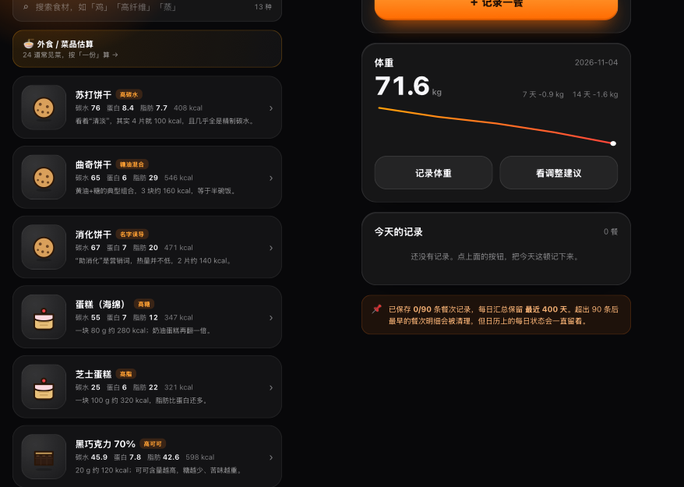
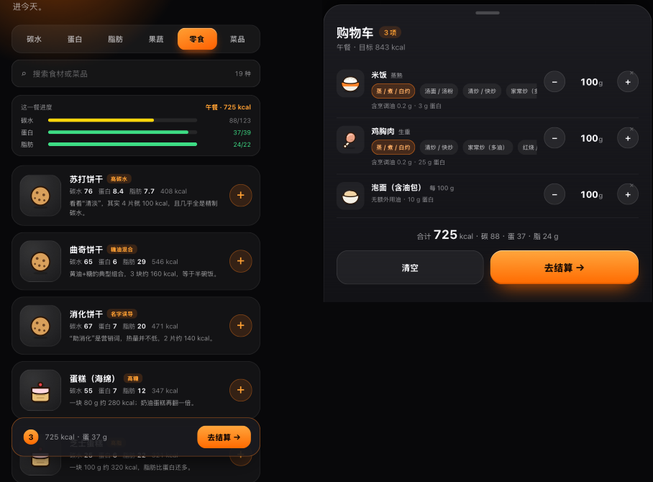
选购式配餐：购物车 + 结算 + 自动记录 + 体重曲线 + 零食与菜品

diff --git a/index.html b/index.html
@@ -6,7 +6,7 @@
 <title>Muscle Calculator · 增肌减脂饮食计算器</title>
 <meta name="theme-color" content="#08080a">
 <link rel="manifest" href="manifest.webmanifest">
-<meta name="app-build" content="v2026.11.04 · af6001ca">
+<meta name="app-build" content="v2026.11.04 · 8e569768">
[2 lines of base64/hex data omitted]
 <meta name="apple-mobile-web-app-capable" content="yes">
@@ -984,6 +984,31 @@ button,.chip,.tab,.food,.cal-cell,.reco-row,.slot,.log-row{touch-action:manipula
 .cs-total b{font-size:20px;color:var(--txt);font-variant-numeric:tabular-nums}
 .cb-left{background:none;border:0;padding:0;cursor:pointer;display:flex;align-items:center;gap:10px;font-family:inherit}
 .cart-wrap{display:contents}
+
+/* ---------------- BMI 卡片 ---------------- */
+.bmi-top{display:flex;align-items:center;gap:14px;margin:4px 0 10px}
+.bmi-num{font-size:40px;font-weight:800;letter-spacing:-.04em;line-height:1;font-variant-numeric:tabular-nums}
+.bmi-num.ok{color:#3ddc84}.bmi-num.low{color:#ffc078}.bmi-num.high{color:#ff8a80}
+.bmi-right{display:flex;flex-direction:column;gap:4px}
+.bmi-cat{font-size:11px;font-weight:750;padding:3px 9px;border-radius:99px;align-self:flex-start}
+.bmi-cat.ok{background:rgba(61,220,132,.14);color:#3ddc84}
+.bmi-cat.low{background:rgba(255,159,10,.14);color:#ffb454}
+.bmi-cat.high{background:rgba(255,69,58,.14);color:#ff8a80}
+.bmi-sub2{font-size:10.5px;color:var(--dim-2)}
+.bmi-line{display:flex;align-items:center;gap:8px;flex-wrap:wrap;font-size:11.5px;color:var(--dim);margin:10px 0}
+.bmi-flag{font-size:9.5px;font-weight:700;padding:2px 7px;border-radius:6px}
+.bmi-flag.ok{background:rgba(61,220,132,.14);color:#3ddc84}
+.bmi-flag.mid{background:rgba(255,159,10,.14);color:#ffb454}
+.bmi-flag.high{background:rgba(255,69,58,.14);color:#ff8a80}
+.bmi-scale{display:flex;gap:2px;height:6px;border-radius:99px;overflow:hidden;margin-top:10px}
+.bmi-scale i{display:block;height:100%}
+.bmi-scale i:nth-child(1){background:#ffd60a}
+.bmi-scale i:nth-child(2){background:#3ddc84}
+.bmi-scale i:nth-child(3){background:#ff9f0a}
+.bmi-scale i:nth-child(4){background:#ff453a}
+.bmi-ticks{display:flex;justify-content:space-between;font-size:9px;color:var(--dim-2);margin-top:4px;padding:0 2px}
+.bmi-num.mid{color:#ffb454}
+.bmi-cat.mid{background:rgba(255,159,10,.14);color:#ffb454}
 </style>
 </head>
 <body>
@@ -2749,6 +2774,7 @@ const DEFAULTS = {
   height: 175,
   weight: 72,
   age: 27,
+  waist: 0,                    // 腰围 cm，0 = 未填
   sessions: 4,
   trainTime: 'evening_after',
   cart: [],                    // 购物车 [{cat,id,g,method,serv}]
@@ -2824,7 +2850,16 @@ function compute() {
 
   /* ---- ⓪ 参考体重：BMI ≥ 28 时按理想体重折算（国内临床惯用做法） ---- */
   const bmi = w / ((h / 100) ** 2);
-  const ibw = 22 * ((h / 100) ** 2);
+  // 中国标准（WS/T 428-2013 / 肥胖症中国诊疗指南 2024）：<18.5 偏瘦，18.5–23.9 正常，24–27.9 超重，≥28 肥胖
+  const bmiCat = bmi < 18.5 ? '偏瘦' : bmi < 24 ? '正常' : bmi < 28 ? '超重' : '肥胖';
+  const hm = h / 100;
+  const healthyMin = 18.5 * hm * hm, healthyMax = 23.9 * hm * hm;
+  // 中心性肥胖：男 ≥90 cm、女 ≥85 cm（2024 指南）；腰高比 ≥0.5 为风险增高（NICE NG246）
+  const waist = state.waist > 0 ? state.waist : null;
+  const whtr = waist ? waist / h : null;
+  const central = waist ? (state.sex === 'm' ? waist >= 90 : waist >= 85) : null;
+  const centralWarn = waist ? (state.sex === 'm' ? waist >= 85 && waist < 90 : waist >= 80 && waist < 85) : null;
+  const ibw = 22 * hm * hm;
   const refW = bmi >= 28 ? ibw : w;
 
   /* ---- ① 热量：只设上限 40 kcal/kg（防止公式在极端体型上跑飞），并设安全下限 ---- */
@@ -2905,6 +2940,8 @@ function compute() {
     pRange: sc.proteinRange || [pPerKg, pPerKg],
     scene: sc, adjusted, guards, diet, dietNote,
     refW: round(refW, 1), bmi: round(bmi, 1), useIbw: bmi >= 28,
+    bmiCat, healthyMin: Math.round(healthyMin), healthyMax: Math.round(healthyMax),
+    waist, whtr: whtr ? round(whtr, 2) : null, central, centralWarn,
     weekly,
     perMealP: round(protein / state.meals),
     water: round(w * 0.035, 1),
@@ -2980,6 +3017,15 @@ function renderInput() {
     ${sliderHTML('height', '身高', state.height, 145, 205, 1, 'cm')}
     ${sliderHTML('weight', '体重', state.weight, 40, 130, 0.5, 'kg')}
     ${sliderHTML('age', '年龄', state.age, 15, 65, 1, '岁')}
+    <div class="field">
+      <div class="field-head">
+        <span class="field-label">腰围（可不填）</span>
+        <span class="field-value" id="fv-waist">${state.waist > 0 ? state.waist + '<small>cm</small>' : '<span style="font-size:13px;color:var(--dim-2)">未填</span>'}</span>
+      </div>
+      <input type="range" data-slider="waist" min="0" max="140" step="1" value="${state.waist}"
+        style="--p:${state.waist / 140 * 100}%" aria-label="腰围">
+      <div class="card-hint" style="margin-top:6px">脐上一指水平绕一圈。男性 ≥90 cm、女性 ≥85 cm 属中心性肥胖。</div>
+    </div>
   </div>
 
   <div class="card">
@@ -3020,18 +3066,66 @@ function renderInput() {
   `;
 }
 
+/* BMI / 腰围 卡片 */
+function bmiCard(r) {
+  const tone = r.bmiCat === '正常' ? 'ok' : r.bmiCat === '偏瘦' ? 'low' : r.bmiCat === '超重' ? 'mid' : 'high';
+  const waistHtml = r.waist
+    ? `<div class="bmi-line">
+        <span>腰围 ${r.waist} cm</span>
+        <span class="bmi-flag ${r.central ? 'high' : r.centralWarn ? 'mid' : 'ok'}">${
+          r.central ? '中心性肥胖' : r.centralWarn ? '偏高' : '正常'
+        }</span>
+        <span class="bmi-sub2">腰高比 ${r.whtr}${r.whtr >= 0.5 ? '（≥0.5）' : ''}</span>
+      </div>`
+    : `<div class="bmi-line"><span class="bmi-sub2">填腰围可以进一步判断内脏脂肪风险</span></div>`;
+
+  return `<div class="card">
+    <div class="card-title"><h3>BMI 与腰围</h3><span class="card-hint">中国标准</span></div>
+    <div class="bmi-top">
+      <div class="bmi-num ${tone}">${r.bmi}</div>
+      <div class="bmi-right">
+        <span class="bmi-cat ${tone}">${r.bmiCat}</span>
+        <div class="bmi-sub2">健康体重 ${r.healthyMin}–${r.healthyMax} kg</div>
+      </div>
+    </div>
+    ${waistHtml}
+    <div class="bmi-scale">
+      <i style="flex:${Math.max(0, Math.min(r.bmi, 18.5) - 14)}"></i>
+      <i style="flex:${Math.max(0, Math.min(r.bmi, 24) - 18.5)}"></i>
+      <i style="flex:${Math.max(0, Math.min(r.bmi, 28) - 24)}"></i>
+      <i style="flex:${Math.max(0, Math.min(r.bmi, 36) - 28)}"></i>
+    </div>
+    <div class="bmi-ticks"><span>18.5</span><span>24</span><span>28</span></div>
+    <p class="lead" style="margin-top:10px">${bmiMessage(r)}</p>
+  </div>`;
+}
+
+function bmiMessage(r) {
+  if (r.bmi < 18.5) return 'BMI 低于 18.5，优先把体重吃回来，再谈增肌或减脂。';
+  if (r.bmi < 24) return 'BMI 在正常范围（18.5–23.9）。BMI 不区分肌肉和脂肪，配合腰围一起看更准。';
+  if (r.bmi < 28) {
+    if (r.central) return 'BMI 属超重，且腰围已达中心性肥胖标准——内脏脂肪的风险比体重数字更值得优先处理。';
+    return 'BMI 偏高但腰围正常。如果你在规律力量训练，这多半是肌肉量带来的，不必按“超重”处理。';
+  }
+  return 'BMI ≥28 属肥胖（中国标准），建议先减重；本工具已按理想体重折算蛋白与脂肪，不需要再额外加蛋白。';
+}
+
 /* 阶段建议：参照国内健身圈通行的 BMI 切换点 */
 function bmiNote(r) {
   const bmi = r.bmi;
+  const waistWarn = r.central ? '另外腰围已达中心性肥胖标准，内脏脂肪比体重更该优先处理。' : '';
   if (r.scene.key === 'cut') {
-    if (bmi <= (state.sex === 'm' ? 22 : 20)) return `BMI ${bmi}，已经到了建议的减脂终点（男 22–23 / 女 20–21）。再往下减，掉的更多是肌肉而不是脂肪，建议转增肌。`;
-    if (bmi <= 24) return `BMI ${bmi}，处在正常范围。可以继续减，但注意别追低体脂——腹肌这类目标对多数人性价比很低。`;
-    return `BMI ${bmi}，先减到 24 以下再考虑增肌，收益会比现在直接增肌更大。`;
+    if (bmi < 18.5) return `BMI ${bmi}，已经偏瘦。继续减会掉肌肉和月经/激素水平，建议先回到 18.5 以上。`;
+    if (bmi <= (state.sex === 'm' ? 22 : 20)) return `BMI ${bmi}，到了建议的减脂终点（男 22–23 / 女 20–21）。再减多半是肌肉，建议转增肌。`;
+    if (bmi < 24) return `BMI ${bmi}，在正常范围（中国标准 18.5–23.9）。可以继续减，但别追低体脂。${waistWarn}`;
+    if (bmi < 28) return `BMI ${bmi}，属超重（24–27.9）。继续按当前缺口减，不用更激进。${waistWarn}`;
+    return `BMI ${bmi}，属肥胖（≥28）。先把体重降到 24 以下收益最大；蛋白已按理想体重折算，不需要吃更多。${waistWarn}`;
   }
   if (r.scene.key === 'bulk') {
-    if (bmi >= 25) return `BMI ${bmi}，已经偏高。增肌期建议控制在 BMI 24–25 以内，否则多出来的重量主要是脂肪。`;
-    if (bmi >= 23) return `BMI ${bmi}，接近增肌的上限区间（男 23–24 / 女 21–22）。建议按每月 0.5–1 kg 的速度收着增。`;
-    return `BMI ${bmi}，还有增重空间。控制在每月 +0.5–1 kg，别追求快速涨秤。`;
+    if (bmi >= 28) return `BMI ${bmi} 已达肥胖，不建议继续增肌。先减脂，增肌的效率在低体脂下反而更高。`;
+    if (bmi >= 25) return `BMI ${bmi} 已超重，增肌期建议控制在 24–25 以内，否则多出来的重量主要是脂肪。`;
+    if (bmi >= 23) return `BMI ${bmi} 接近增肌上限（男 23–24 / 女 21–22），按每月 +0.5–1 kg 收着增。`;
+    return `BMI ${bmi}，还有增重空间。控制每月 +0.5–1 kg，别追求快速涨秤。`;
   }
   return '';
 }
@@ -3171,6 +3265,8 @@ function renderResult() {
     ${r.useIbw ? `<div class="pill-note" style="background:rgba(10,132,255,.08);border-color:rgba(10,132,255,.25);color:#9ccbff">
       <span class="i">📐</span><span>BMI ${r.bmi}，蛋白与脂肪按<b>理想体重 ${r.refW} kg</b> 折算（国内临床对肥胖人群的通行做法），而不是实际体重 ${state.weight} kg。</span></div>` : ''}
   </div>
+
+  ${bmiCard(r)}
 
   <div class="card">
     <div class="card-title"><h3>把数字落到每顿饭</h3><span class="card-hint">${state.meals} 餐 / 天</span></div>
@@ -4780,6 +4876,12 @@ function openEvidence(ids) {
       · <b>《中国居民膳食指南（2022）》</b>：蔬菜 300–500 g、水果 200–350 g、全谷物 50–150 g、大豆坚果 25–35 g 等份量建议。<br><br>
       <b>关于「2026 版」</b>：截至 2026 年初，中国营养学会仍在为下一版指南公开征集修订意见，新版尚未发布。网上流传的「2026 新膳食指南」多为自媒体解读或预测，所以本工具仍以 2022 版为准，等官方发布后再更新。</p></div>
 
+    <div class="sec"><h4>⑧ BMI 与腰围用的是哪套标准</h4>
+      <p>BMI = 体重 ÷ 身高²，分级用<b>中国标准</b>（WS/T 428-2013 与《肥胖症中国诊疗指南（2024 年版）》）：<b>&lt;18.5 偏瘦 · 18.5–23.9 正常 · 24–27.9 超重 · ≥28 肥胖</b>。注意这套切点比 WHO 国际标准（25/30）更严格，因为亚洲人在同样 BMI 下体脂和糖尿病风险更高。<br><br>
+      中心性肥胖按 <b>男性腰围 ≥90 cm、女性 ≥85 cm</b>（2024 指南）；腰高比（腰围÷身高）<b>≥0.5</b> 视为风险增高，这是 NICE NG246 推荐的低成本筛查指标。<br><br>
+      BMI 本身不区分肌肉和脂肪，所以本工具不会只凭 BMI 下结论：如果你在规律力量训练、BMI 24–28 但腰围正常，提示里会明确说「多半是肌肉量，不必按超重处理」。</p>
+      <a class="ref" href="https://www.chinagp.net/" target="_blank" rel="noopener">参考：肥胖症中国诊疗指南（2024 年版）↗</a></div>
+
     <div class="sec"><h4>⑨ 与国内「健身 Excel 套表」类方案的差异</h4>
       <p>国内流行的表格方案（例如 B 站好人松松的套表）用的是「BMR ÷ 0.7 + 训练固定消耗 + 有氧」的分解法，减脂热量取平衡热量的 <b>0.64 倍</b>（20% 缺口 × 0.8 容错余量）。我们吸收了其中两点：<b>训练日 / 休息日分开算</b>、<b>有氧单列</b>。<br><br>
       没有照搬的三点：<br>
@@ -5184,7 +5286,10 @@ document.addEventListener('input', (ev) => {
   const p = (v - s.min) / (s.max - s.min) * 100;
   s.style.setProperty('--p', p + '%');
   const lab = $('#fv-' + id);
-  if (lab) lab.innerHTML = `${v}<small>${lab.querySelector('small')?.textContent || ''}</small>`;
+  if (lab) {
+    if (id === 'waist') lab.innerHTML = v > 0 ? `${v}<small>cm</small>` : '<span style="font-size:13px;color:var(--dim-2)">未填</span>';
+    else lab.innerHTML = `${v}<small>${lab.querySelector('small')?.textContent || ''}</small>`;
+  }
   save();
 });
 

diff --git a/src/app.js b/src/app.js
@@ -15,6 +15,7 @@ const DEFAULTS = {
   height: 175,
   weight: 72,
   age: 27,
+  waist: 0,                    // 腰围 cm，0 = 未填
   sessions: 4,
   trainTime: 'evening_after',
   cart: [],                    // 购物车 [{cat,id,g,method,serv}]
@@ -90,7 +91,16 @@ function compute() {
 
   /* ---- ⓪ 参考体重：BMI ≥ 28 时按理想体重折算（国内临床惯用做法） ---- */
   const bmi = w / ((h / 100) ** 2);
-  const ibw = 22 * ((h / 100) ** 2);
+  // 中国标准（WS/T 428-2013 / 肥胖症中国诊疗指南 2024）：<18.5 偏瘦，18.5–23.9 正常，24–27.9 超重，≥28 肥胖
+  const bmiCat = bmi < 18.5 ? '偏瘦' : bmi < 24 ? '正常' : bmi < 28 ? '超重' : '肥胖';
+  const hm = h / 100;
+  const healthyMin = 18.5 * hm * hm, healthyMax = 23.9 * hm * hm;
+  // 中心性肥胖：男 ≥90 cm、女 ≥85 cm（2024 指南）；腰高比 ≥0.5 为风险增高（NICE NG246）
+  const waist = state.waist > 0 ? state.waist : null;
+  const whtr = waist ? waist / h : null;
+  const central = waist ? (state.sex === 'm' ? waist >= 90 : waist >= 85) : null;
+  const centralWarn = waist ? (state.sex === 'm' ? waist >= 85 && waist < 90 : waist >= 80 && waist < 85) : null;
+  const ibw = 22 * hm * hm;
   const refW = bmi >= 28 ? ibw : w;
 
   /* ---- ① 热量：只设上限 40 kcal/kg（防止公式在极端体型上跑飞），并设安全下限 ---- */
@@ -171,6 +181,8 @@ function compute() {
     pRange: sc.proteinRange || [pPerKg, pPerKg],
     scene: sc, adjusted, guards, diet, dietNote,
     refW: round(refW, 1), bmi: round(bmi, 1), useIbw: bmi >= 28,
+    bmiCat, healthyMin: Math.round(healthyMin), healthyMax: Math.round(healthyMax),
+    waist, whtr: whtr ? round(whtr, 2) : null, central, centralWarn,
     weekly,
     perMealP: round(protein / state.meals),
     water: round(w * 0.035, 1),
@@ -246,6 +258,15 @@ function renderInput() {
     ${sliderHTML('height', '身高', state.height, 145, 205, 1, 'cm')}
     ${sliderHTML('weight', '体重', state.weight, 40, 130, 0.5, 'kg')}
     ${sliderHTML('age', '年龄', state.age, 15, 65, 1, '岁')}
+    <div class="field">
+      <div class="field-head">
+        <span class="field-label">腰围（可不填）</span>
+        <span class="field-value" id="fv-waist">${state.waist > 0 ? state.waist + '<small>cm</small>' : '<span style="font-size:13px;color:var(--dim-2)">未填</span>'}</span>
+      </div>
+      <input type="range" data-slider="waist" min="0" max="140" step="1" value="${state.waist}"
+        style="--p:${state.waist / 140 * 100}%" aria-label="腰围">
+      <div class="card-hint" style="margin-top:6px">脐上一指水平绕一圈。男性 ≥90 cm、女性 ≥85 cm 属中心性肥胖。</div>
+    </div>
   </div>
 
   <div class="card">
@@ -286,18 +307,66 @@ function renderInput() {
   `;
 }
 
+/* BMI / 腰围 卡片 */
+function bmiCard(r) {
+  const tone = r.bmiCat === '正常' ? 'ok' : r.bmiCat === '偏瘦' ? 'low' : r.bmiCat === '超重' ? 'mid' : 'high';
+  const waistHtml = r.waist
+    ? `<div class="bmi-line">
+        <span>腰围 ${r.waist} cm</span>
+        <span class="bmi-flag ${r.central ? 'high' : r.centralWarn ? 'mid' : 'ok'}">${
+          r.central ? '中心性肥胖' : r.centralWarn ? '偏高' : '正常'
+        }</span>
+        <span class="bmi-sub2">腰高比 ${r.whtr}${r.whtr >= 0.5 ? '（≥0.5）' : ''}</span>
+      </div>`
+    : `<div class="bmi-line"><span class="bmi-sub2">填腰围可以进一步判断内脏脂肪风险</span></div>`;
+
+  return `<div class="card">
+    <div class="card-title"><h3>BMI 与腰围</h3><span class="card-hint">中国标准</span></div>
+    <div class="bmi-top">
+      <div class="bmi-num ${tone}">${r.bmi}</div>
+      <div class="bmi-right">
+        <span class="bmi-cat ${tone}">${r.bmiCat}</span>
+        <div class="bmi-sub2">健康体重 ${r.healthyMin}–${r.healthyMax} kg</div>
+      </div>
+    </div>
+    ${waistHtml}
+    <div class="bmi-scale">
+      <i style="flex:${Math.max(0, Math.min(r.bmi, 18.5) - 14)}"></i>
+      <i style="flex:${Math.max(0, Math.min(r.bmi, 24) - 18.5)}"></i>
+      <i style="flex:${Math.max(0, Math.min(r.bmi, 28) - 24)}"></i>
+      <i style="flex:${Math.max(0, Math.min(r.bmi, 36) - 28)}"></i>
+    </div>
+    <div class="bmi-ticks"><span>18.5</span><span>24</span><span>28</span></div>
+    <p class="lead" style="margin-top:10px">${bmiMessage(r)}</p>
+  </div>`;
+}
+
+function bmiMessage(r) {
+  if (r.bmi < 18.5) return 'BMI 低于 18.5，优先把体重吃回来，再谈增肌或减脂。';
+  if (r.bmi < 24) return 'BMI 在正常范围（18.5–23.9）。BMI 不区分肌肉和脂肪，配合腰围一起看更准。';
+  if (r.bmi < 28) {
+    if (r.central) return 'BMI 属超重，且腰围已达中心性肥胖标准——内脏脂肪的风险比体重数字更值得优先处理。';
+    return 'BMI 偏高但腰围正常。如果你在规律力量训练，这多半是肌肉量带来的，不必按“超重”处理。';
+  }
+  return 'BMI ≥28 属肥胖（中国标准），建议先减重；本工具已按理想体重折算蛋白与脂肪，不需要再额外加蛋白。';
+}
+
 /* 阶段建议：参照国内健身圈通行的 BMI 切换点 */
 function bmiNote(r) {
   const bmi = r.bmi;
+  const waistWarn = r.central ? '另外腰围已达中心性肥胖标准，内脏脂肪比体重更该优先处理。' : '';
   if (r.scene.key === 'cut') {
-    if (bmi <= (state.sex === 'm' ? 22 : 20)) return `BMI ${bmi}，已经到了建议的减脂终点（男 22–23 / 女 20–21）。再往下减，掉的更多是肌肉而不是脂肪，建议转增肌。`;
-    if (bmi <= 24) return `BMI ${bmi}，处在正常范围。可以继续减，但注意别追低体脂——腹肌这类目标对多数人性价比很低。`;
-    return `BMI ${bmi}，先减到 24 以下再考虑增肌，收益会比现在直接增肌更大。`;
+    if (bmi < 18.5) return `BMI ${bmi}，已经偏瘦。继续减会掉肌肉和月经/激素水平，建议先回到 18.5 以上。`;
+    if (bmi <= (state.sex === 'm' ? 22 : 20)) return `BMI ${bmi}，到了建议的减脂终点（男 22–23 / 女 20–21）。再减多半是肌肉，建议转增肌。`;
+    if (bmi < 24) return `BMI ${bmi}，在正常范围（中国标准 18.5–23.9）。可以继续减，但别追低体脂。${waistWarn}`;
+    if (bmi < 28) return `BMI ${bmi}，属超重（24–27.9）。继续按当前缺口减，不用更激进。${waistWarn}`;
+    return `BMI ${bmi}，属肥胖（≥28）。先把体重降到 24 以下收益最大；蛋白已按理想体重折算，不需要吃更多。${waistWarn}`;
   }
   if (r.scene.key === 'bulk') {
-    if (bmi >= 25) return `BMI ${bmi}，已经偏高。增肌期建议控制在 BMI 24–25 以内，否则多出来的重量主要是脂肪。`;
-    if (bmi >= 23) return `BMI ${bmi}，接近增肌的上限区间（男 23–24 / 女 21–22）。建议按每月 0.5–1 kg 的速度收着增。`;
-    return `BMI ${bmi}，还有增重空间。控制在每月 +0.5–1 kg，别追求快速涨秤。`;
+    if (bmi >= 28) return `BMI ${bmi} 已达肥胖，不建议继续增肌。先减脂，增肌的效率在低体脂下反而更高。`;
+    if (bmi >= 25) return `BMI ${bmi} 已超重，增肌期建议控制在 24–25 以内，否则多出来的重量主要是脂肪。`;
+    if (bmi >= 23) return `BMI ${bmi} 接近增肌上限（男 23–24 / 女 21–22），按每月 +0.5–1 kg 收着增。`;
+    return `BMI ${bmi}，还有增重空间。控制每月 +0.5–1 kg，别追求快速涨秤。`;
   }
   return '';
 }
@@ -437,6 +506,8 @@ function renderResult() {
     ${r.useIbw ? `<div class="pill-note" style="background:rgba(10,132,255,.08);border-color:rgba(10,132,255,.25);color:#9ccbff">
       <span class="i">📐</span><span>BMI ${r.bmi}，蛋白与脂肪按<b>理想体重 ${r.refW} kg</b> 折算（国内临床对肥胖人群的通行做法），而不是实际体重 ${state.weight} kg。</span></div>` : ''}
   </div>
+
+  ${bmiCard(r)}
 
   <div class="card">
     <div class="card-title"><h3>把数字落到每顿饭</h3><span class="card-hint">${state.meals} 餐 / 天</span></div>
@@ -2046,6 +2117,12 @@ function openEvidence(ids) {
       · <b>《中国居民膳食指南（2022）》</b>：蔬菜 300–500 g、水果 200–350 g、全谷物 50–150 g、大豆坚果 25–35 g 等份量建议。<br><br>
       <b>关于「2026 版」</b>：截至 2026 年初，中国营养学会仍在为下一版指南公开征集修订意见，新版尚未发布。网上流传的「2026 新膳食指南」多为自媒体解读或预测，所以本工具仍以 2022 版为准，等官方发布后再更新。</p></div>
 
+    <div class="sec"><h4>⑧ BMI 与腰围用的是哪套标准</h4>
+      <p>BMI = 体重 ÷ 身高²，分级用<b>中国标准</b>（WS/T 428-2013 与《肥胖症中国诊疗指南（2024 年版）》）：<b>&lt;18.5 偏瘦 · 18.5–23.9 正常 · 24–27.9 超重 · ≥28 肥胖</b>。注意这套切点比 WHO 国际标准（25/30）更严格，因为亚洲人在同样 BMI 下体脂和糖尿病风险更高。<br><br>
+      中心性肥胖按 <b>男性腰围 ≥90 cm、女性 ≥85 cm</b>（2024 指南）；腰高比（腰围÷身高）<b>≥0.5</b> 视为风险增高，这是 NICE NG246 推荐的低成本筛查指标。<br><br>
+      BMI 本身不区分肌肉和脂肪，所以本工具不会只凭 BMI 下结论：如果你在规律力量训练、BMI 24–28 但腰围正常，提示里会明确说「多半是肌肉量，不必按超重处理」。</p>
+      <a class="ref" href="https://www.chinagp.net/" target="_blank" rel="noopener">参考：肥胖症中国诊疗指南（2024 年版）↗</a></div>
+
     <div class="sec"><h4>⑨ 与国内「健身 Excel 套表」类方案的差异</h4>
       <p>国内流行的表格方案（例如 B 站好人松松的套表）用的是「BMR ÷ 0.7 + 训练固定消耗 + 有氧」的分解法，减脂热量取平衡热量的 <b>0.64 倍</b>（20% 缺口 × 0.8 容错余量）。我们吸收了其中两点：<b>训练日 / 休息日分开算</b>、<b>有氧单列</b>。<br><br>
       没有照搬的三点：<br>
@@ -2450,7 +2527,10 @@ document.addEventListener('input', (ev) => {
   const p = (v - s.min) / (s.max - s.min) * 100;
   s.style.setProperty('--p', p + '%');
   const lab = $('#fv-' + id);
-  if (lab) lab.innerHTML = `${v}<small>${lab.querySelector('small')?.textContent || ''}</small>`;
+  if (lab) {
+    if (id === 'waist') lab.innerHTML = v > 0 ? `${v}<small>cm</small>` : '<span style="font-size:13px;color:var(--dim-2)">未填</span>';
+    else lab.innerHTML = `${v}<small>${lab.querySelector('small')?.textContent || ''}</small>`;
+  }
   save();
 });
 

diff --git a/src/styles.css b/src/styles.css
@@ -967,3 +967,28 @@ button,.chip,.tab,.food,.cal-cell,.reco-row,.slot,.log-row{touch-action:manipula
 .cs-total b{font-size:20px;color:var(--txt);font-variant-numeric:tabular-nums}
 .cb-left{background:none;border:0;padding:0;cursor:pointer;display:flex;align-items:center;gap:10px;font-family:inherit}
 .cart-wrap{display:contents}
+
+/* ---------------- BMI 卡片 ---------------- */
+.bmi-top{display:flex;align-items:center;gap:14px;margin:4px 0 10px}
+.bmi-num{font-size:40px;font-weight:800;letter-spacing:-.04em;line-height:1;font-variant-numeric:tabular-nums}
+.bmi-num.ok{color:#3ddc84}.bmi-num.low{color:#ffc078}.bmi-num.high{color:#ff8a80}
+.bmi-right{display:flex;flex-direction:column;gap:4px}
+.bmi-cat{font-size:11px;font-weight:750;padding:3px 9px;border-radius:99px;align-self:flex-start}
+.bmi-cat.ok{background:rgba(61,220,132,.14);color:#3ddc84}
+.bmi-cat.low{background:rgba(255,159,10,.14);color:#ffb454}
+.bmi-cat.high{background:rgba(255,69,58,.14);color:#ff8a80}
+.bmi-sub2{font-size:10.5px;color:var(--dim-2)}
+.bmi-line{display:flex;align-items:center;gap:8px;flex-wrap:wrap;font-size:11.5px;color:var(--dim);margin:10px 0}
+.bmi-flag{font-size:9.5px;font-weight:700;padding:2px 7px;border-radius:6px}
+.bmi-flag.ok{background:rgba(61,220,132,.14);color:#3ddc84}
+.bmi-flag.mid{background:rgba(255,159,10,.14);color:#ffb454}
+.bmi-flag.high{background:rgba(255,69,58,.14);color:#ff8a80}
+.bmi-scale{display:flex;gap:2px;height:6px;border-radius:99px;overflow:hidden;margin-top:10px}
+.bmi-scale i{display:block;height:100%}
+.bmi-scale i:nth-child(1){background:#ffd60a}
+.bmi-scale i:nth-child(2){background:#3ddc84}
+.bmi-scale i:nth-child(3){background:#ff9f0a}
+.bmi-scale i:nth-child(4){background:#ff453a}
+.bmi-ticks{display:flex;justify-content:space-between;font-size:9px;color:var(--dim-2);margin-top:4px;padding:0 2px}
+.bmi-num.mid{color:#ffb454}
+.bmi-cat.mid{background:rgba(255,159,10,.14);color:#ffb454}

diff --git a/sw.js b/sw.js
@@ -1,4 +1,4 @@
-const VERSION = 'v2026.11.04 · af6001ca';
+const VERSION = 'v2026.11.04 · 8e569768';
 const CACHE = 'mc-' + VERSION;
 const ASSETS = ['./', './index.html', './manifest.webmanifest', './icon-192.png', './icon-512.png'];
 

diff --git a/README.md b/README.md
@@ -52,6 +52,7 @@ push 之后 GitHub Actions 会自动重新构建并发布，链接不变。
 
 - **四种场景**：增肌 / 减脂 / 不训练维持 / 休息停训（1 天、1–2 周、2–4 周）
 - **每日配额**：热量、碳水、蛋白、脂肪，附供能比校验（对照中国 DRIs 2023 与肥胖指南 2021）
+- **BMI 与腰围**：按中国标准（18.5/24/28）分级，含健康体重区间、中心性肥胖判定（男 ≥90 / 女 ≥85 cm）与腰高比
 - **97 种食材**：碳水 15 · 蛋白 25 · 脂肪 14 · 果蔬 24 · **零食 19**（含 70%/85% 黑巧、牛奶巧克力、白巧）
 - **24 道外食菜品**：红烧肉、宫保鸡丁、牛肉面等按「一份」估算，可加入购物车
 - **烹调油模型**：选做法（蒸/炒/红烧/油炸…）自动算油并从脂肪配额扣除
